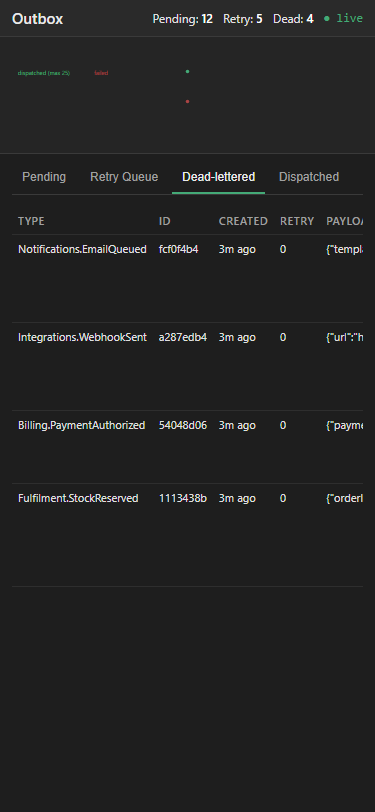
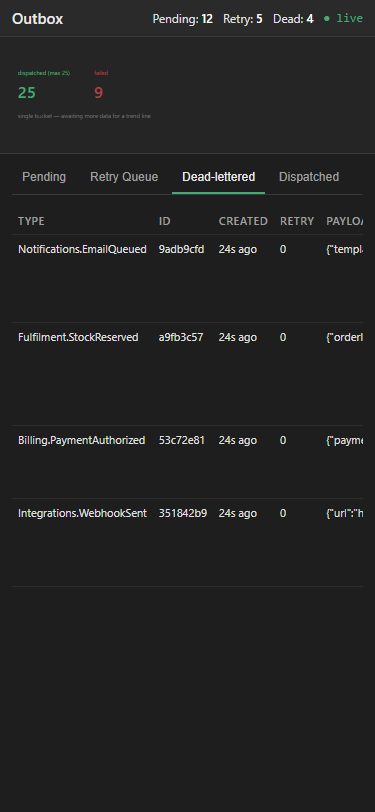
fix(dashboard): render single-bucket throughput as counts, not tiny dots
When only one time bucket is available — which is the state for any
freshly-started host, including the DashboardSample, for the first
minute after seed — the renderer fell into the polyline branch with
points.length === 1 and drew two 3px circles at the centre of the
SVG. The result was an apparently empty chart with barely-visible
markers, which in the yesterday's regression pass read as a UI glitch
rather than valid data awaiting a trend.

Replace the single-point branch with a clear display of the two
counts in a large (28px, weight 600) font plus a light-grey hint
"single bucket — awaiting more data for a trend line". Legend stays
on top so the green/red colour mapping is still documented. The
multi-bucket polyline branch is unchanged.

Screenshots refreshed against the DashboardSample seed (12 pending /
5 retry / 4 dead-lettered / 25 dispatched).

diff --git a/src/ZeroAlloc.Outbox.Dashboard/wwwroot/outbox.js b/src/ZeroAlloc.Outbox.Dashboard/wwwroot/outbox.js
@@ -146,13 +146,15 @@
       '<text x="140" y="15" fill="#a44" font-size="10">failed</text>';
 
     if (points.length === 1) {
-      // Single point — polylines don't render, so draw circle markers instead.
+      // Single bucket — a polyline degenerates to a point and tiny circles read as chart glitches.
+      // Show the two counts as prominent numbers with an explanatory hint so the UI is legible
+      // on a freshly-started host before a trend has accumulated.
       const p = points[0];
-      const cx = scaleX(0);
       svg.innerHTML =
-        '<circle cx="' + cx + '" cy="' + scaleY(p.dispatched) + '" r="3" fill="#4a7"/>' +
-        '<circle cx="' + cx + '" cy="' + scaleY(p.failed) + '" r="3" fill="#a44"/>' +
-        legend;
+        legend +
+        '<text x="10"  y="55" fill="#4a7" font-size="28" font-weight="600">' + (p.dispatched || 0) + '</text>' +
+        '<text x="140" y="55" fill="#a44" font-size="28" font-weight="600">' + (p.failed || 0) + '</text>' +
+        '<text x="10"  y="90" fill="#777" font-size="10">single bucket — awaiting more data for a trend line</text>';
       return;
     }
 
